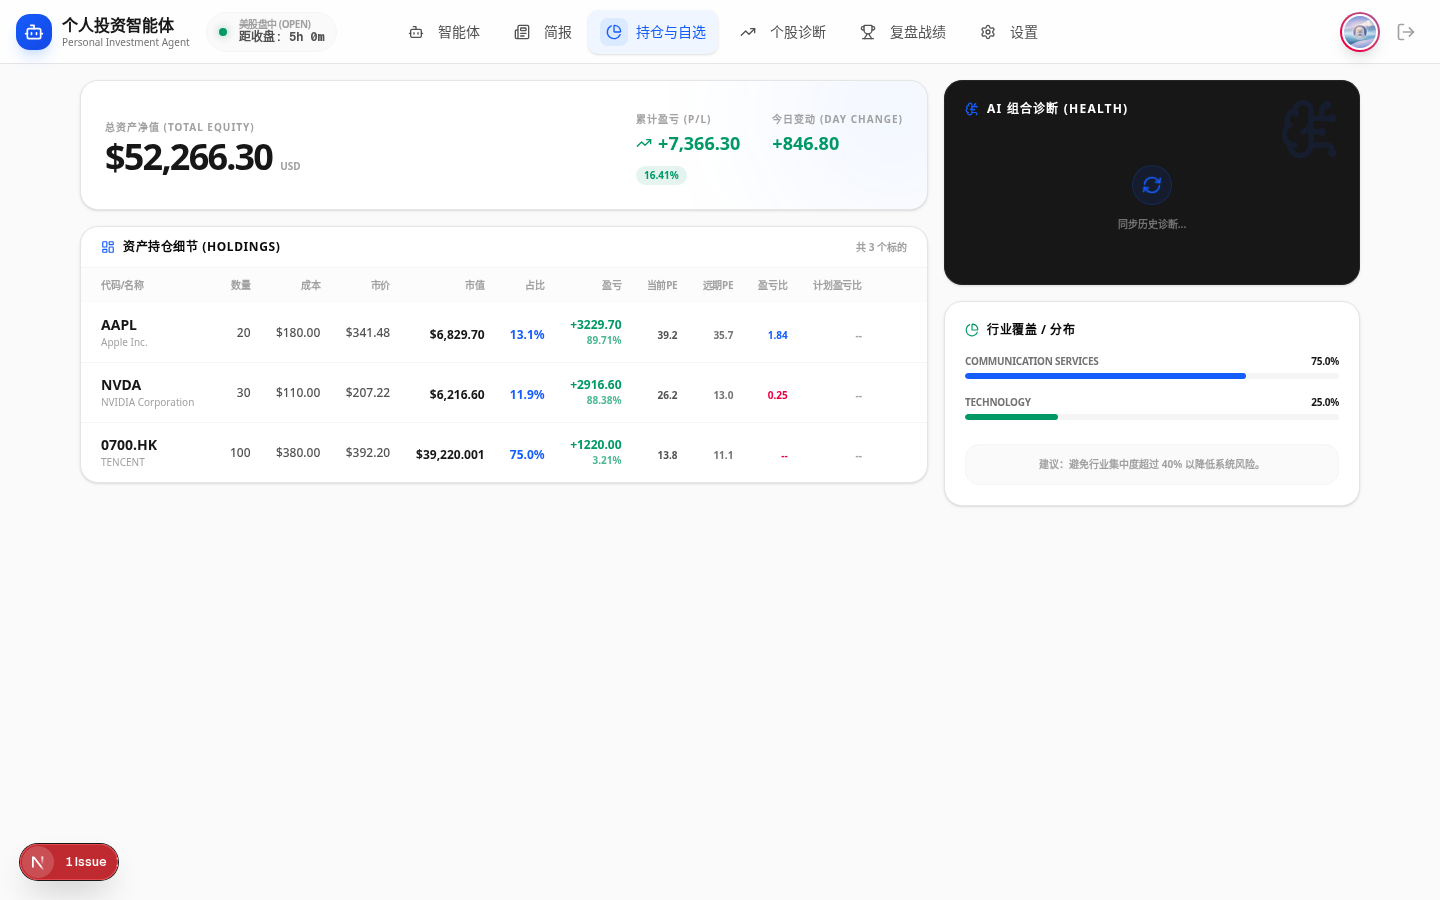
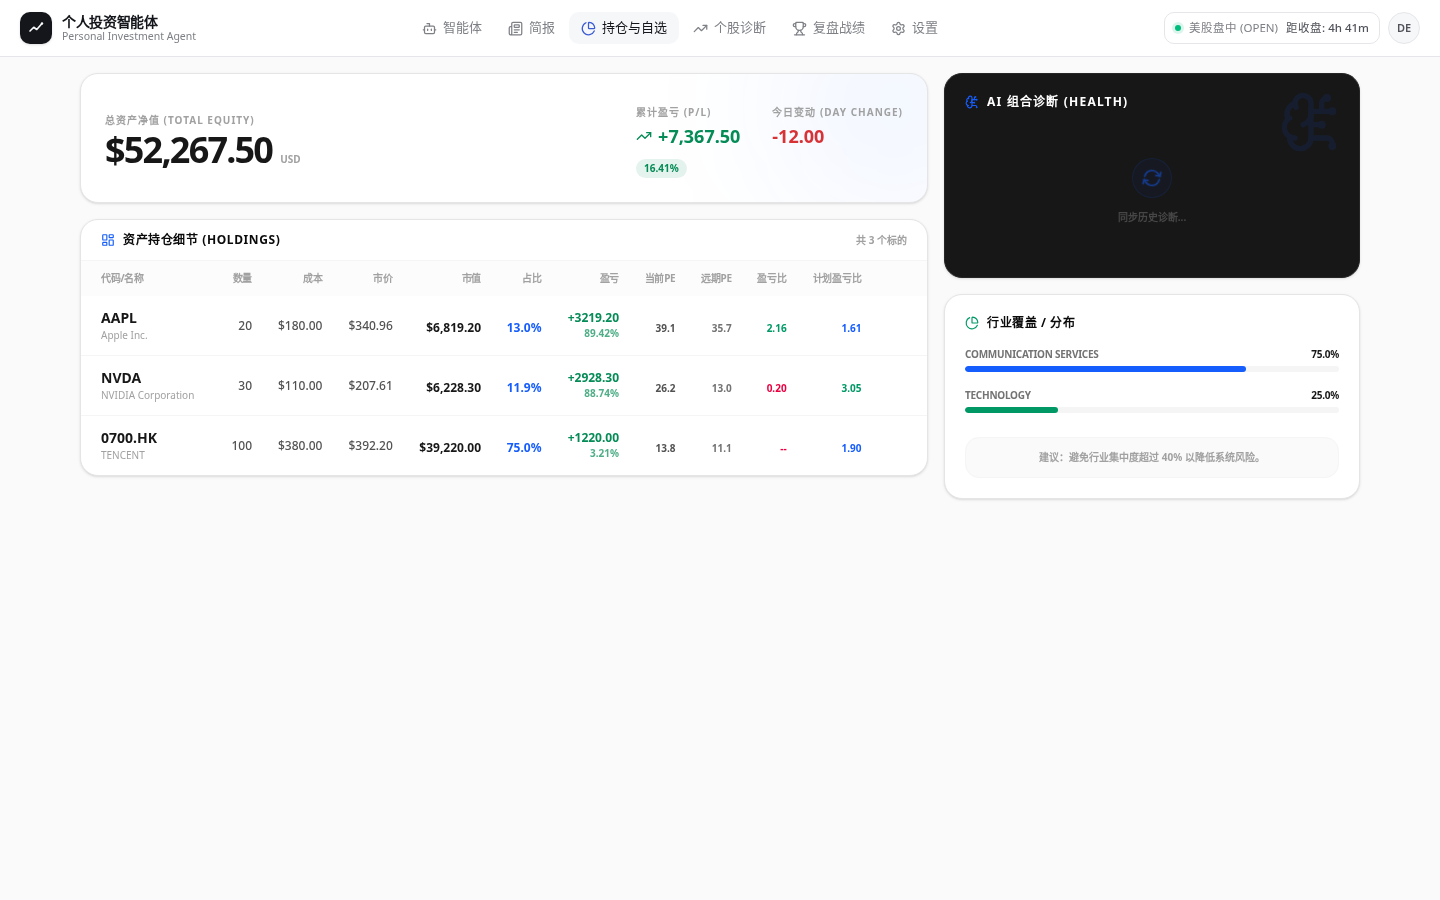
docs: 更新改版截图（桌面/移动/深色/两种涨跌配色）与说明

diff --git a/docs/agent-p2.md b/docs/agent-p2.md
@@ -69,3 +69,12 @@
 ## 截图
 
 改版前：`docs/images/before/`；改版后：`docs/images/after/`。
+
+## 视觉改版与涨跌配色（Phase 3）
+
+- 设计令牌集中在 `frontend/app/globals.css`：单一靛蓝强调色 `brand`，`canvas/surface/elevated/line/ink` 分层，`card / num / eyebrow / skeleton` 工具类，深浅色均通过令牌切换。
+- **涨跌配色可配置**：价格涨跌一律使用语义色 `text-up / text-down / bg-up-soft / bg-down-soft`（K 线用 `priceHex()`），不再硬编码红绿。
+  - 默认 **绿涨红跌**（`green_up`），可在 设置 → 外观与显示 切换为 **红涨绿跌**（`red_up`），带实时预览。
+  - 存储：`users.price_color_mode`（迁移 `f1c2d3e4a5b6`），经 `PUT /api/v1/user/settings` 保存；同时缓存在 `localStorage.price_color_mode`，`<head>` 内联脚本在首屏前设置 `html[data-updown]`，未登录页面同样生效。
+- `/try` 入口默认隐藏：`NEXT_PUBLIC_FEATURE_TRIAL` 默认 `false`（页面与后端开关保留）。登录/注册页下方旧营销区块（合作方、定价、占位数据）以 `SHOW_AUTH_MARKETING=false` 隐藏。
+- 截图：`docs/images/after/`（桌面 1440/1280，浅色/深色，两种涨跌配色）与 `docs/images/after/mobile/`（390）。

diff --git a/README.md b/README.md
@@ -29,7 +29,7 @@
 |---|---|
 | ![复盘战绩](docs/images/after/review.png) | ![今日简报](docs/images/after/briefs.png) |
 | **投资画像** | **免登录试用** |
-| ![投资画像](docs/images/after/settings-profile.png) | ![试用](docs/images/after/try.png) |
+| ![投资画像](docs/images/after/settings-profile.png) | ![外观与涨跌配色](docs/images/after/settings-appearance.png) |
 
 > 截图中的部分复盘记录为演示数据。
 
